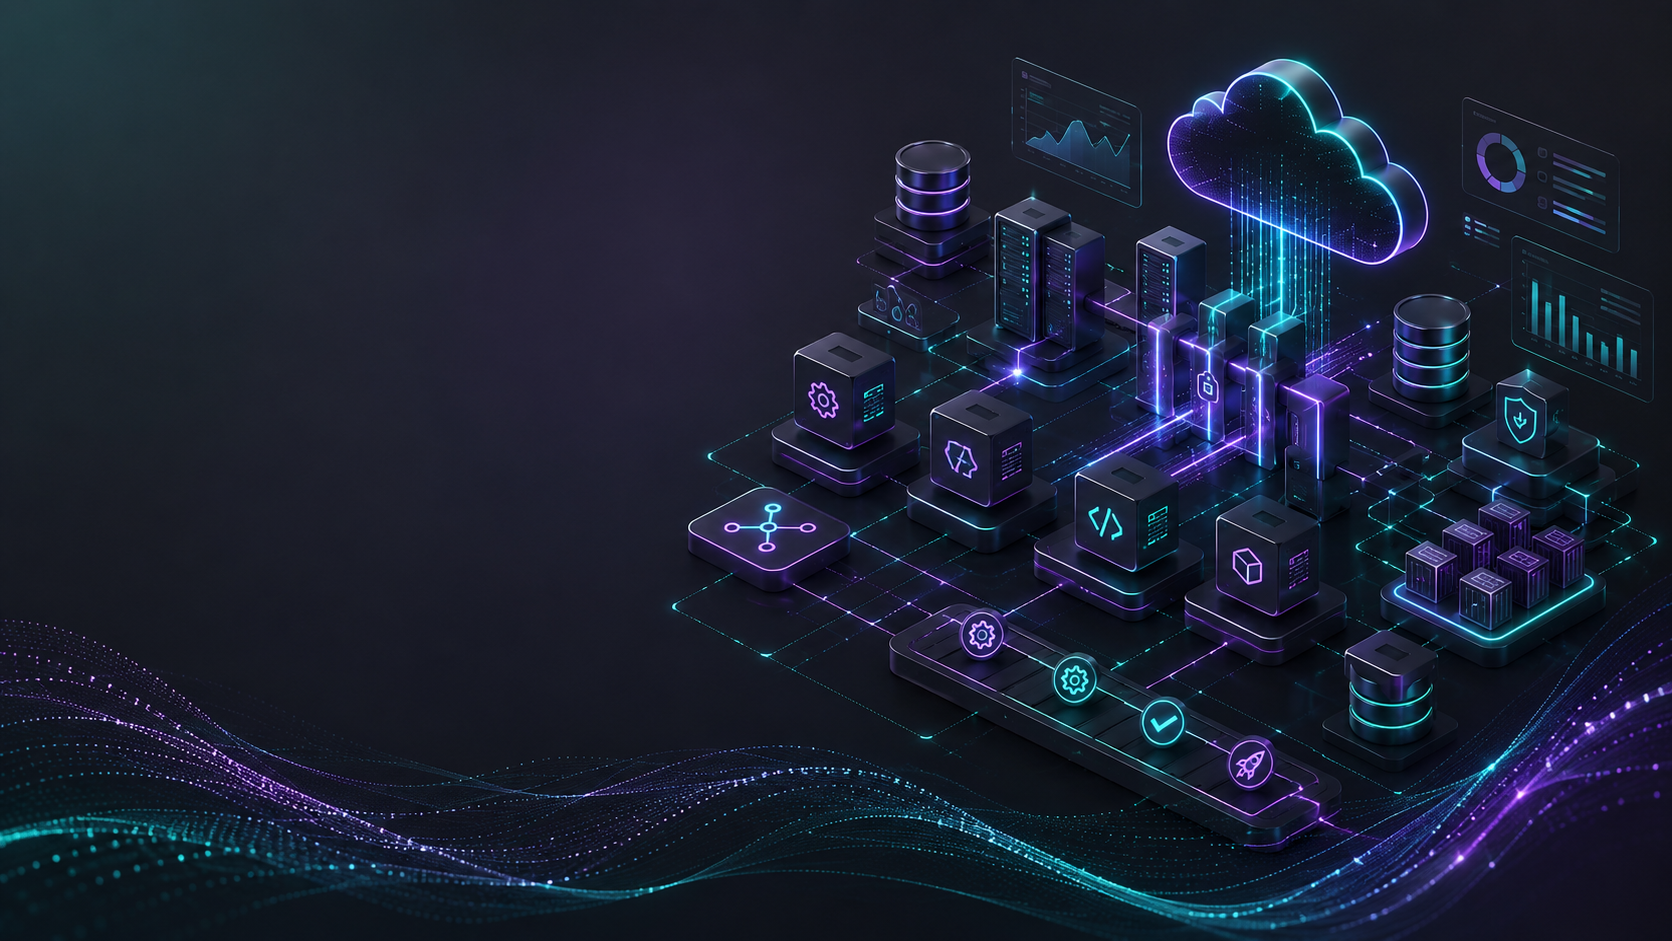
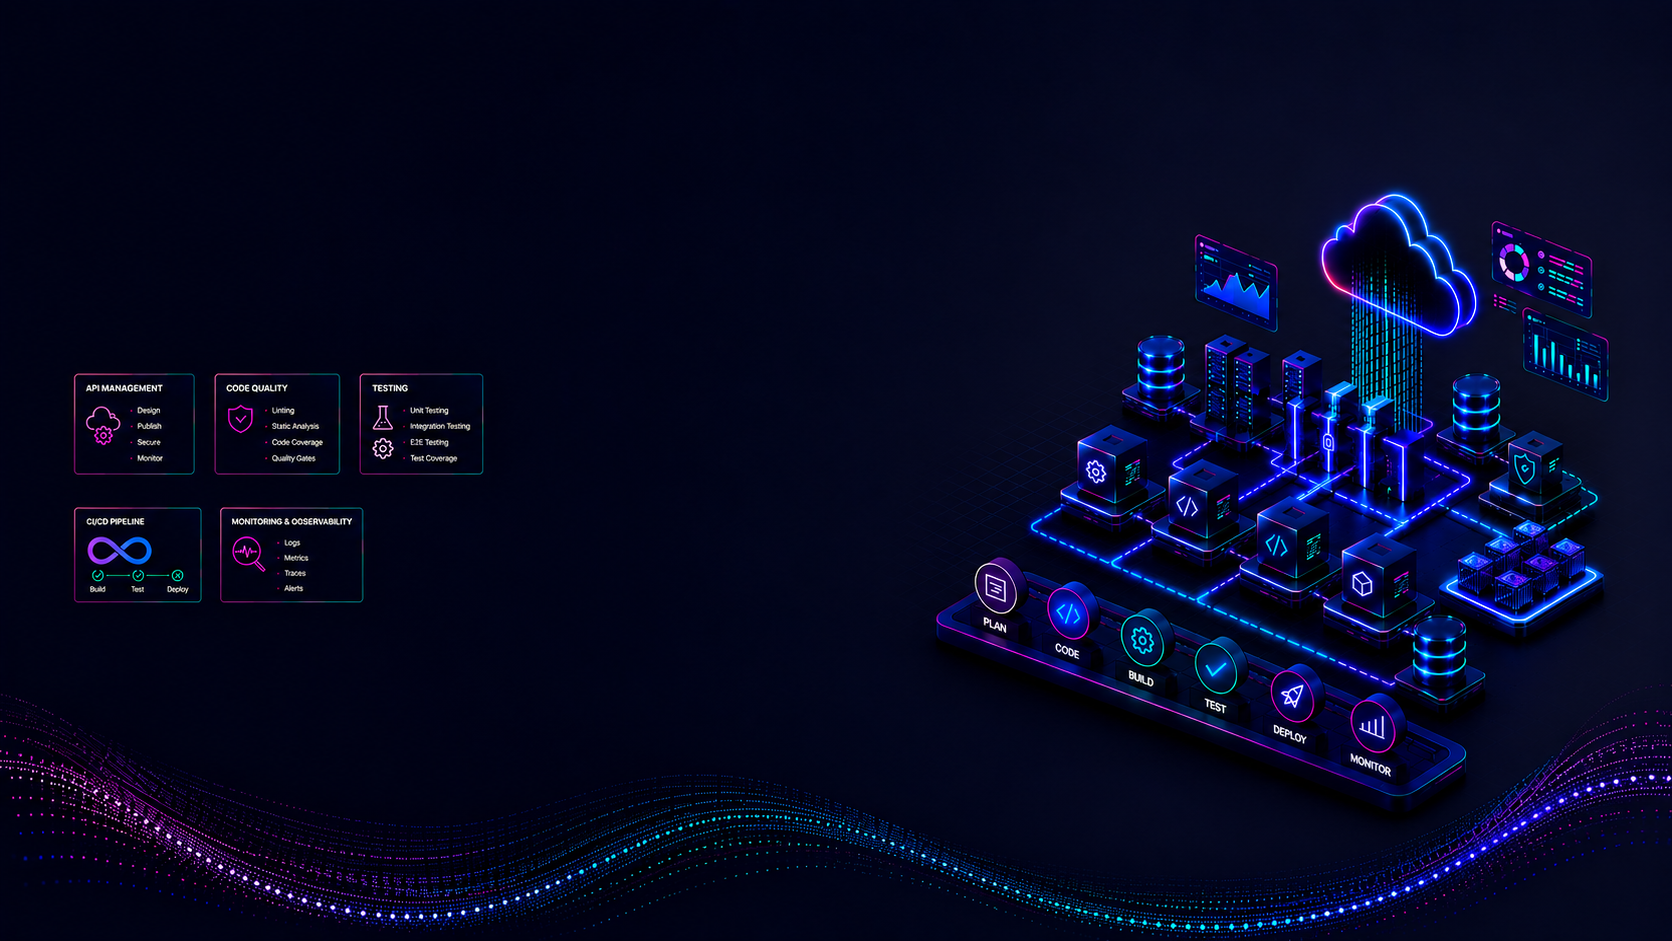
Minor Enhancements

diff --git a/index.html b/index.html
@@ -547,7 +547,7 @@
         </div>
         <div class="col-md-9" data-aos="fade-left" data-aos-offset="50" data-aos-duration="500">
           <div class="card-body">
-            <div class="h5"><strong>Bahwan CyberTek (Amazon Payments)</strong></div>
+            <div class="h5"><strong>Bahwan CyberTek Consulting(Amazon Travel & Payments)</strong></div>
             <p class="category"><strong>Software Development Engineer</strong></p>
             <ul>
               <li><strong>Engineered high-throughput distributed APIs</strong> ensuring <strong>fault tolerance</strong>, <strong>reliability engineering</strong>, and <strong>production resilience</strong>.</li>
@@ -655,14 +655,14 @@
 		
           <!-- Certification Item 1: NVIDIA LLM - Gen AI -->
           <div class="card mb-3">
-            <div class="card-header bg-primary text-white" id="headingDeepLearning">
+            <div class="card-header bg-primary text-white" id="headingNvidiaGenAI">
               <h2 class="mb-0">
-                <button class="btn btn-link text-white text-left" type="button" data-toggle="collapse" data-target="#collapseDeepLearning" aria-expanded="true" aria-controls="collapseDeepLearning">
+                <button class="btn btn-link text-white text-left" type="button" data-toggle="collapse" data-target="#collapseNvidiaGenAI" aria-expanded="true" aria-controls="collapseNvidiaGenAI">
                   <i class="fas fa-brain fa-lg"></i><strong>LLM : Gen AI- 2025</strong>
                 </button>
               </h2>
             </div>
-            <div id="collapseDeepLearning" class="collapse show" aria-labelledby="headingDeepLearning" data-parent="#certificationsAccordion">
+            <div id="collapseNvidiaGenAI" class="collapse show" aria-labelledby="headingNvidiaGenAI" data-parent="#certificationsAccordion">
               <div class="card-body">
                 <h5><a href="https://learn.nvidia.com/certificates?id" target="_blank" class="text-primary"><strong>Building LLM Applications With Prompt Engineering (NVIDIA) </strong></a></h5>
                 <p>
@@ -675,14 +675,14 @@
           </div>
 		  <!-- Certification Item 2: AWS : Gen AI -->
           <div class="card mb-3">
-            <div class="card-header bg-primary text-white" id="headingDeepLearning">
+            <div class="card-header bg-primary text-white" id="headingAwsGenAI">
               <h2 class="mb-0">
-                <button class="btn btn-link text-white text-left" type="button" data-toggle="collapse" data-target="#collapseDeepLearning" aria-expanded="true" aria-controls="collapseDeepLearning">
+                <button class="btn btn-link text-white text-left" type="button" data-toggle="collapse" data-target="#collapseAwsGenAI" aria-expanded="true" aria-controls="collapseAwsGenAI">
                   <i class="fas fa-brain fa-lg"></i><strong>AWS : Gen AI - 2025</strong>
                 </button>
               </h2>
             </div>
-            <div id="collapseDeepLearning" class="collapse show" aria-labelledby="headingDeepLearning" data-parent="#certificationsAccordion">
+            <div id="collapseAwsGenAI" class="collapse show" aria-labelledby="headingAwsGenAI" data-parent="#certificationsAccordion">
               <div class="card-body">
                 <h5><a href="https://www.udacity.com/certificate/e/b745c120-3d24-11f0-b6f9-a3d6d9c3bd7a" target="_blank" class="text-primary"><strong>Introducing Generative AI with AWS 
 				(Udacity)</strong></a></h5>
@@ -696,14 +696,14 @@
           </div>
 		  <!-- Certification Item 3: LinkedIn : Software Development -->
           <div class="card mb-3">
-            <div class="card-header bg-primary text-white" id="headingDeepLearning">
+            <div class="card-header bg-primary text-white" id="headingSecureSoftware">
               <h2 class="mb-0">
-                <button class="btn btn-link text-white text-left" type="button" data-toggle="collapse" data-target="#collapseDeepLearning" aria-expanded="true" aria-controls="collapseDeepLearning">
+                <button class="btn btn-link text-white text-left" type="button" data-toggle="collapse" data-target="#collapseSecureSoftware" aria-expanded="true" aria-controls="collapseSecureSoftware">
                   <i class="fas fa-brain fa-lg"></i><strong>Secure Software - 2024</strong>
                 </button>
               </h2>
             </div>
-            <div id="collapseDeepLearning" class="collapse show" aria-labelledby="headingDeepLearning" data-parent="#certificationsAccordion">
+            <div id="collapseSecureSoftware" class="collapse show" aria-labelledby="headingSecureSoftware" data-parent="#certificationsAccordion">
               <div class="card-body">
                 <h5><a href="https://www.udemy.com/certificate/UC-5e2e7a14-5bcc-4a68-b59e-53e9598a1e04/" target="_blank" class="text-primary"><strong>Developing Secure Software(LinkedIn Certifcation)</strong></a></h5>
                 <p>
@@ -716,14 +716,14 @@
           </div>
 		  <!-- Certification Item 4: Java Springboot -->
           <div class="card mb-3">
-            <div class="card-header bg-primary text-white" id="headingDeepLearning">
+            <div class="card-header bg-primary text-white" id="headingSpringBoot">
               <h2 class="mb-0">
-                <button class="btn btn-link text-white text-left" type="button" data-toggle="collapse" data-target="#collapseDeepLearning" aria-expanded="true" aria-controls="collapseDeepLearning">
+                <button class="btn btn-link text-white text-left" type="button" data-toggle="collapse" data-target="#collapseSpringBoot" aria-expanded="true" aria-controls="collapseSpringBoot">
                   <i class="fas fa-brain fa-lg"></i><strong>Spring boot - 2024</strong>
                 </button>
               </h2>
             </div>
-            <div id="collapseDeepLearning" class="collapse show" aria-labelledby="headingDeepLearning" data-parent="#certificationsAccordion">
+            <div id="collapseSpringBoot" class="collapse show" aria-labelledby="headingSpringBoot" data-parent="#certificationsAccordion">
               <div class="card-body">
                 <h5><a href="https://www.udemy.com/certificate/UC-5e2e7a14-5bcc-4a68-b59e-53e9598a1e04/" target="_blank" class="text-primary"><strong>Master Spring Boot 3 & Spring Framework 6 with Java (Udemy : In28minutes)</strong></a></h5>
                 <p>
@@ -830,7 +830,7 @@
             </div>
             <div id="collapseNetworkSecurity" class="collapse" aria-labelledby="headingNetworkSecurity" data-parent="#certificationsAccordion">
               <div class="card-body">
-                <h5><a href="https://drive.google.com/file/d/1q3NMS7elMXDs8d71E-jhvtGt86bCnDJt/view?usp=sharing" target="_blank" class="text-primary"><strong>End User: Network Security (Cybrary - Microcertification)</strong></a>
+                <h5><a href="https://drive.google.com/file/d/1q3NMS7elMXDs8d71E-jhvtGt86bCnDJt/view?usp=sharing" target="_blank" class="text-primary"><strong>End User: Network Security (Cybrary - Microcertification)</strong></a></h5>
                 <p>
                   <em>
                     Analyzed various instances of Network Security implementations in real-time applications with hands-on use cases.
@@ -981,7 +981,7 @@
   <div class="container">
     <div class="card shadow-sm" data-aos="fade-up" data-aos-offset="10">
       <div class="card-body">
-        <h4 class="card-title text-center mb-4"><strong>Achievement</strong></strong></h4>
+        <h4 class="card-title text-center mb-4"><strong>Achievement</strong></h4>
         <ul class="list-group list-group-flush">
           <!-- Achievement Item 1 -->
           <li class="list-group-item d-flex align-items-center">

diff --git a/styles/theme.css b/styles/theme.css
@@ -1291,11 +1291,11 @@ body {
 }
 
 #skill .card-body {
-  padding: 1.65rem !important;
+  padding: 1.25rem !important;
 }
 
 #skill .row.g-4 {
-  row-gap: 14px;
+  row-gap: 10px;
   margin-right: -7px;
   margin-left: -7px;
 }
@@ -1306,9 +1306,9 @@ body {
 }
 
 #skill .skill-item {
-  min-height: 92px;
-  padding: 13px 15px !important;
-  border-radius: 18px;
+  min-height: 78px;
+  padding: 10px 12px !important;
+  border-radius: 14px;
 }
 
 #skill .skill-title {
@@ -1317,23 +1317,30 @@ body {
 }
 
 #skill .skill-icon {
-  width: 24px;
-  height: 24px;
-  margin-right: 7px;
-  font-size: .74rem;
+  width: 21px;
+  height: 21px;
+  margin-right: 6px;
+  font-size: .68rem;
 }
 
 #skill .progress-bar-clean {
-  height: 6px;
+  height: 5px;
 }
 
 #skill .progress-value {
-  min-width: 2.4rem;
-  font-size: .64rem;
+  min-width: 2.15rem;
+  font-size: .6rem;
+}
+
+#publications .col-md-3.bg-primary {
+  display: flex;
+  align-items: center !important;
+  justify-content: center !important;
 }
 
 #publications .cc-education-header {
   width: 100%;
+  padding: 0 !important;
   text-align: center !important;
 }
 
@@ -1732,7 +1739,7 @@ body {
 .fixed-top.navbar {
   background-image:
     linear-gradient(90deg, rgba(4, 18, 31, .62), rgba(7, 89, 133, .46)),
-    url('../images/Background/Nikunj_Portfolio_image.png') !important;
+    url('../images/Background/Nikunj_Portfolio_Header.png') !important;
   background-size: cover !important;
   background-position: center 42% !important;
   background-repeat: no-repeat !important;
@@ -1768,6 +1775,10 @@ body {
 #publications .card-body p,
 #certification .card-body p {
   font-size: .88rem;
+}
+
+#experience .card .category {
+  text-transform: none;
 }
 
 #publications .publication-meta-year {
@@ -1859,13 +1870,16 @@ body {
   filter: none !important;
   opacity: 1 !important;
   background-color: transparent !important;
+  background-size: 104% auto !important;
+  background-position: center 42% !important;
+  background-repeat: no-repeat !important;
 }
 
 .navbar.bg-primary,
 .navbar.navbar-transparent,
 .fixed-top.navbar {
   background-color: transparent !important;
-  background-image: url('../images/Background/Nikunj_Portfolio_image.png') !important;
+  background-image: url('../images/Background/Nikunj_Portfolio_Header.png') !important;
   background-size: cover !important;
   background-position: center 42% !important;
   background-repeat: no-repeat !important;
@@ -2061,34 +2075,60 @@ body {
   margin-bottom: .25rem !important;
 }
 
+#publications .col-md-3.bg-primary {
+  min-height: 100%;
+}
+
+#publications .cc-education-header {
+  display: flex;
+  min-height: 100%;
+  align-items: center;
+  justify-content: center;
+  flex-direction: column;
+  padding: 0 !important;
+}
+
+#publications .card .category {
+  text-transform: none !important;
+}
+
+@media (max-width: 767.98px) {
+  .profile-cover-image {
+    background-size: auto 104% !important;
+  }
+}
+
 #certification .accordion .card,
 #certification #certificationsAccordion .card {
-  margin-bottom: .8rem !important;
+  margin-bottom: .55rem !important;
 }
 
 #certification .card-header {
-  padding: .55rem .85rem;
+  padding: .38rem .7rem;
 }
 
 #certification .card-header h5,
 #certification .card-header .mb-0,
 #certification .accordion .btn-link {
-  font-size: .82rem !important;
-  line-height: 1.25;
+  font-size: .76rem !important;
+  line-height: 1.18;
+  padding-top: .2rem;
+  padding-bottom: .2rem;
 }
 
 #certification .accordion .card-body {
-  padding: .85rem 1rem;
+  padding: .6rem .85rem;
 }
 
 #certification .accordion .card-body h5,
 #certification .accordion .card-body h5 a {
-  font-size: .88rem !important;
-  line-height: 1.3;
+  font-size: .82rem !important;
+  line-height: 1.25;
 }
 
 #certification .accordion .card-body p {
-  margin-bottom: .55rem;
+  margin-bottom: .35rem;
+  line-height: 1.38;
 }
 
 @media (max-width: 767.98px) {

diff --git a/styles/base.css b/styles/base.css
@@ -20,6 +20,12 @@
   background-image: url('../images/Background/Nikunj_Portfolio_image.png');
 }
 
+.navbar.bg-primary,
+.navbar.navbar-transparent,
+.fixed-top.navbar {
+  background-image: url('../images/Background/Nikunj_Portfolio_Header.png');
+}
+
 .contact-map {
   background-image: url('../images/Contact/staticmap.png');
 }
